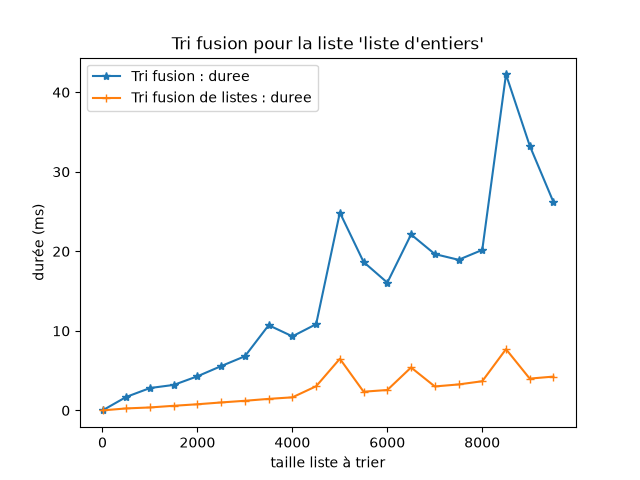
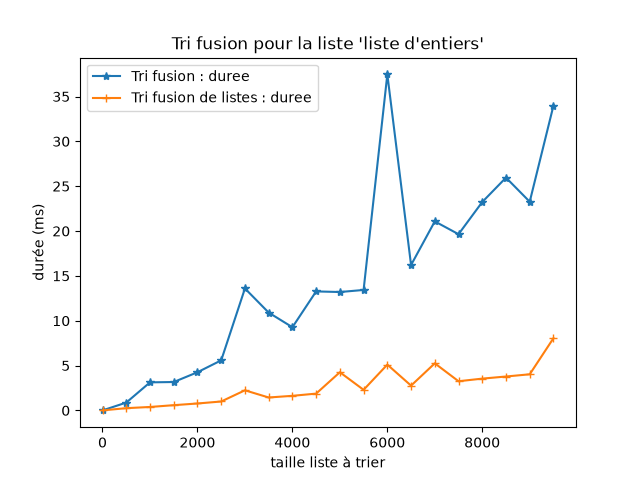
Fin seance 1

diff --git a/tri_fusion.py b/tri_fusion.py
@@ -306,15 +306,23 @@ if __name__ == "__main__":
 
     # Partie 2 : tests sur des listes python de jeux #################
 
-    #L = extraire_donnees("IGDB/jeux_consoles.csv", 10) # 10 éléments
+    L = extraire_donnees("IGDB/jeux_consoles.csv", 10) # 10 éléments
     #L = extraire_donnees("IGDB/jeux_consoles.csv") # toute la liste !
     #L = extraire_donnees("IGDB/jeux_toutes_plateformes.csv", 10) # 10 éléments
     #L = extraire_donnees("IGDB/jeux_toutes_plateformes.csv") # toute la liste !
 
-    #afficher_jeux_tabulaire(L)
+    afficher_jeux_tabulaire(L)
+    print("est trié ?", est_triee(L,comparer_id_jeu))
+    # TODO : Comment la liste est-elle triée au départ ? 
+    
+    ## Par id de jeu
 
-    # TODO : Comment la liste est-elle triée au départ ?
     # trier pour déterminer si le tri est stable
+
+    L_triee=tri_fusion(L, 0, len(L)-1,comparer_mois)
+    afficher_jeux_tabulaire(L)
+    print("est trié ?", est_triee(L,comparer_id_jeu))
+    print("est trié ?", est_triee(L,comparer_mois))
     # Quelle est la complexité pratique du tri des jeux ?
 
 
